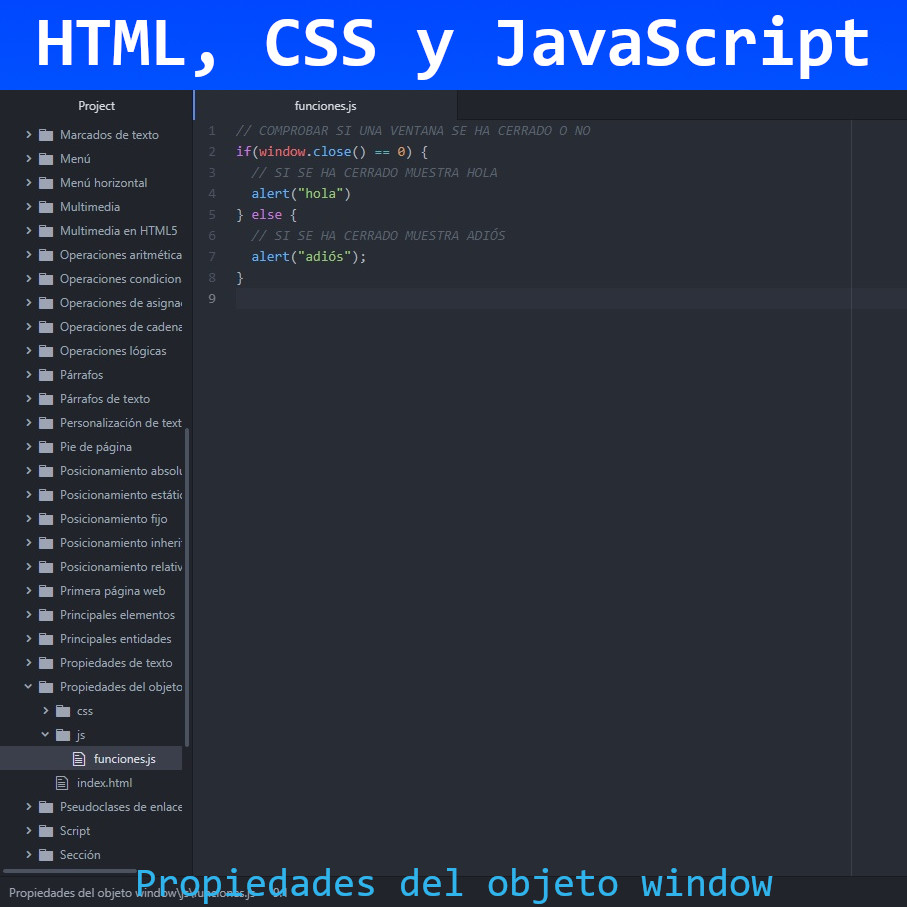
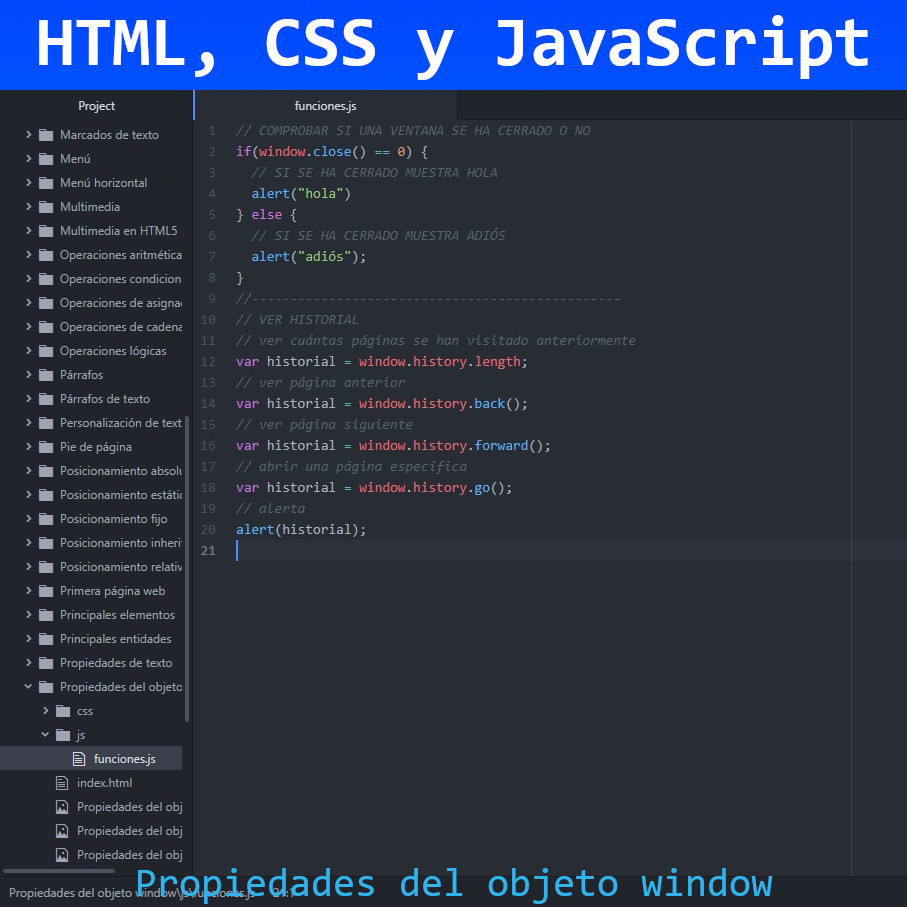
Propiedades del objeto window
Propiedades del objeto window en JavaScript

Changed region(s): [[0.247, 0.3396, 0.5865, 0.6174], [0.0309, 0.8644, 0.1852, 0.9879], [0.6483, 0.3705, 0.6792, 0.4013]]

diff --git a/HTML, CSS y JavaScript/Propiedades del objeto window/js/funciones.js b/HTML, CSS y JavaScript/Propiedades del objeto window/js/funciones.js
@@ -6,3 +6,15 @@ if(window.close() == 0) {
   // SI SE HA CERRADO MUESTRA ADIÓS
   alert("adiós");
 }
+//------------------------------------------------
+// VER HISTORIAL
+// ver cuántas páginas se han visitado anteriormente
+//var historial = window.history.length;
+// ver página anterior
+//var historial = window.history.back();
+// ver página siguiente
+//var historial = window.history.forward();
+// abrir una página específica
+var historial = window.history.go();
+// alerta
+alert(historial);
